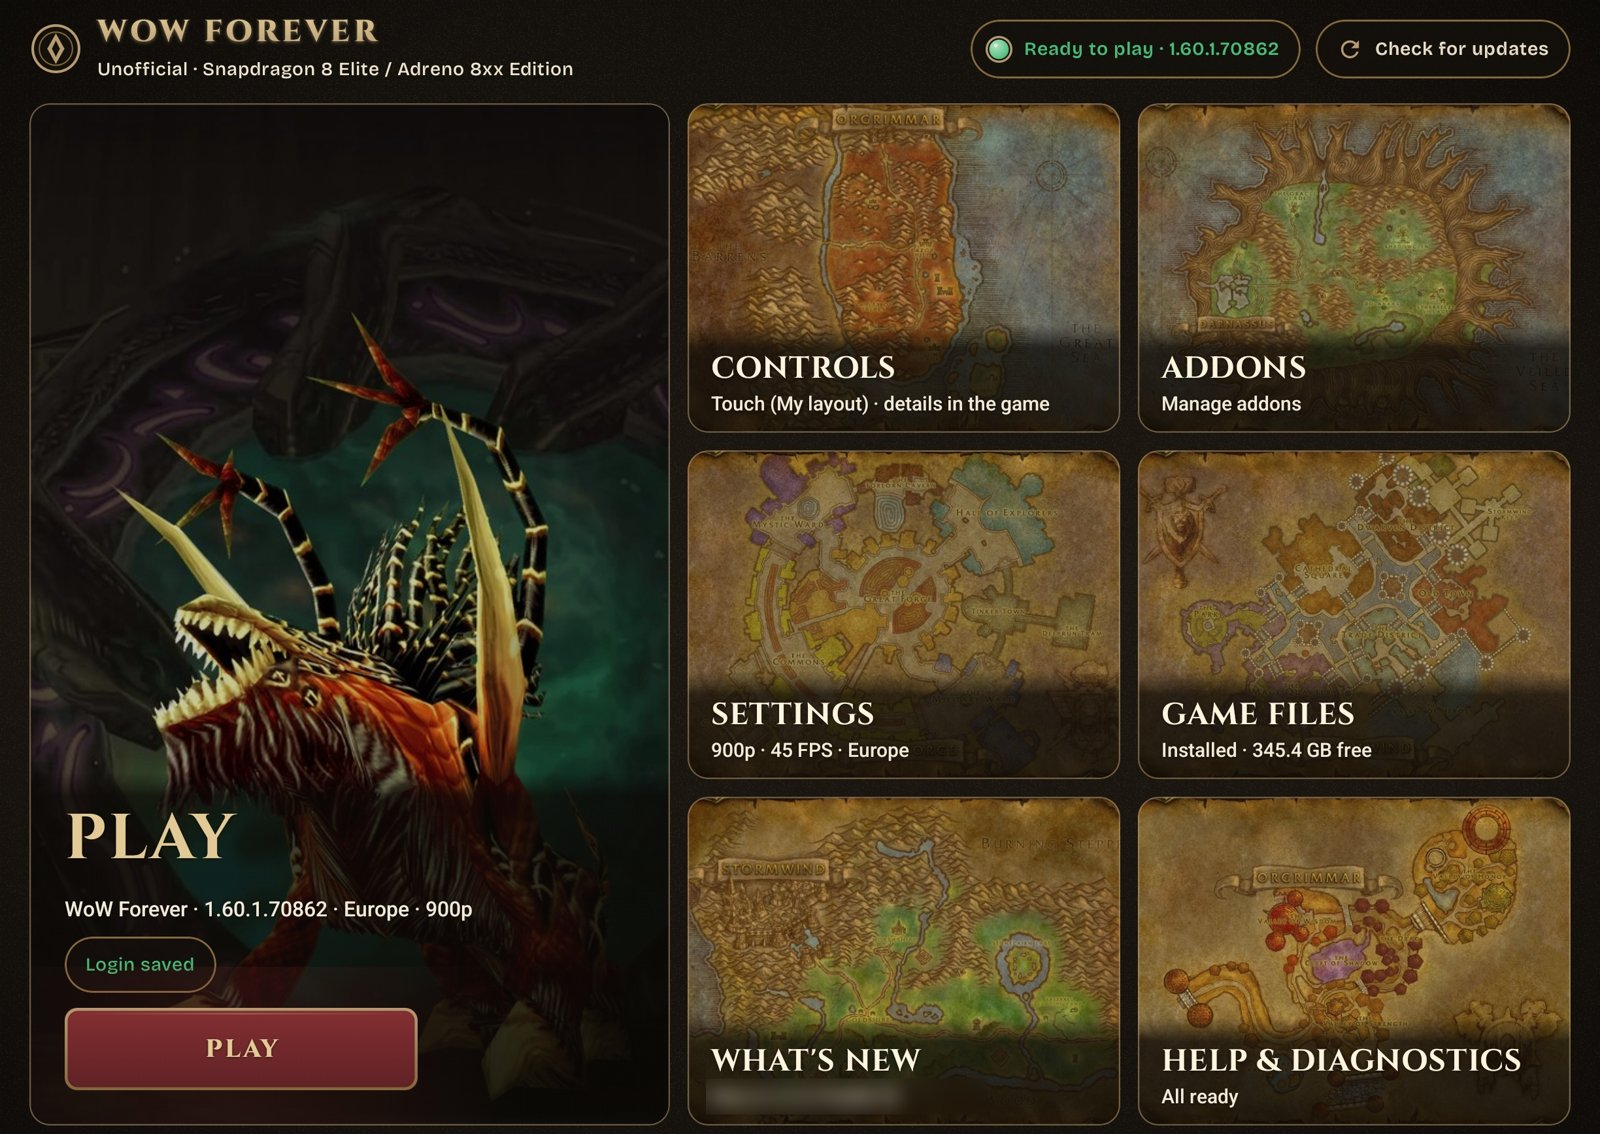
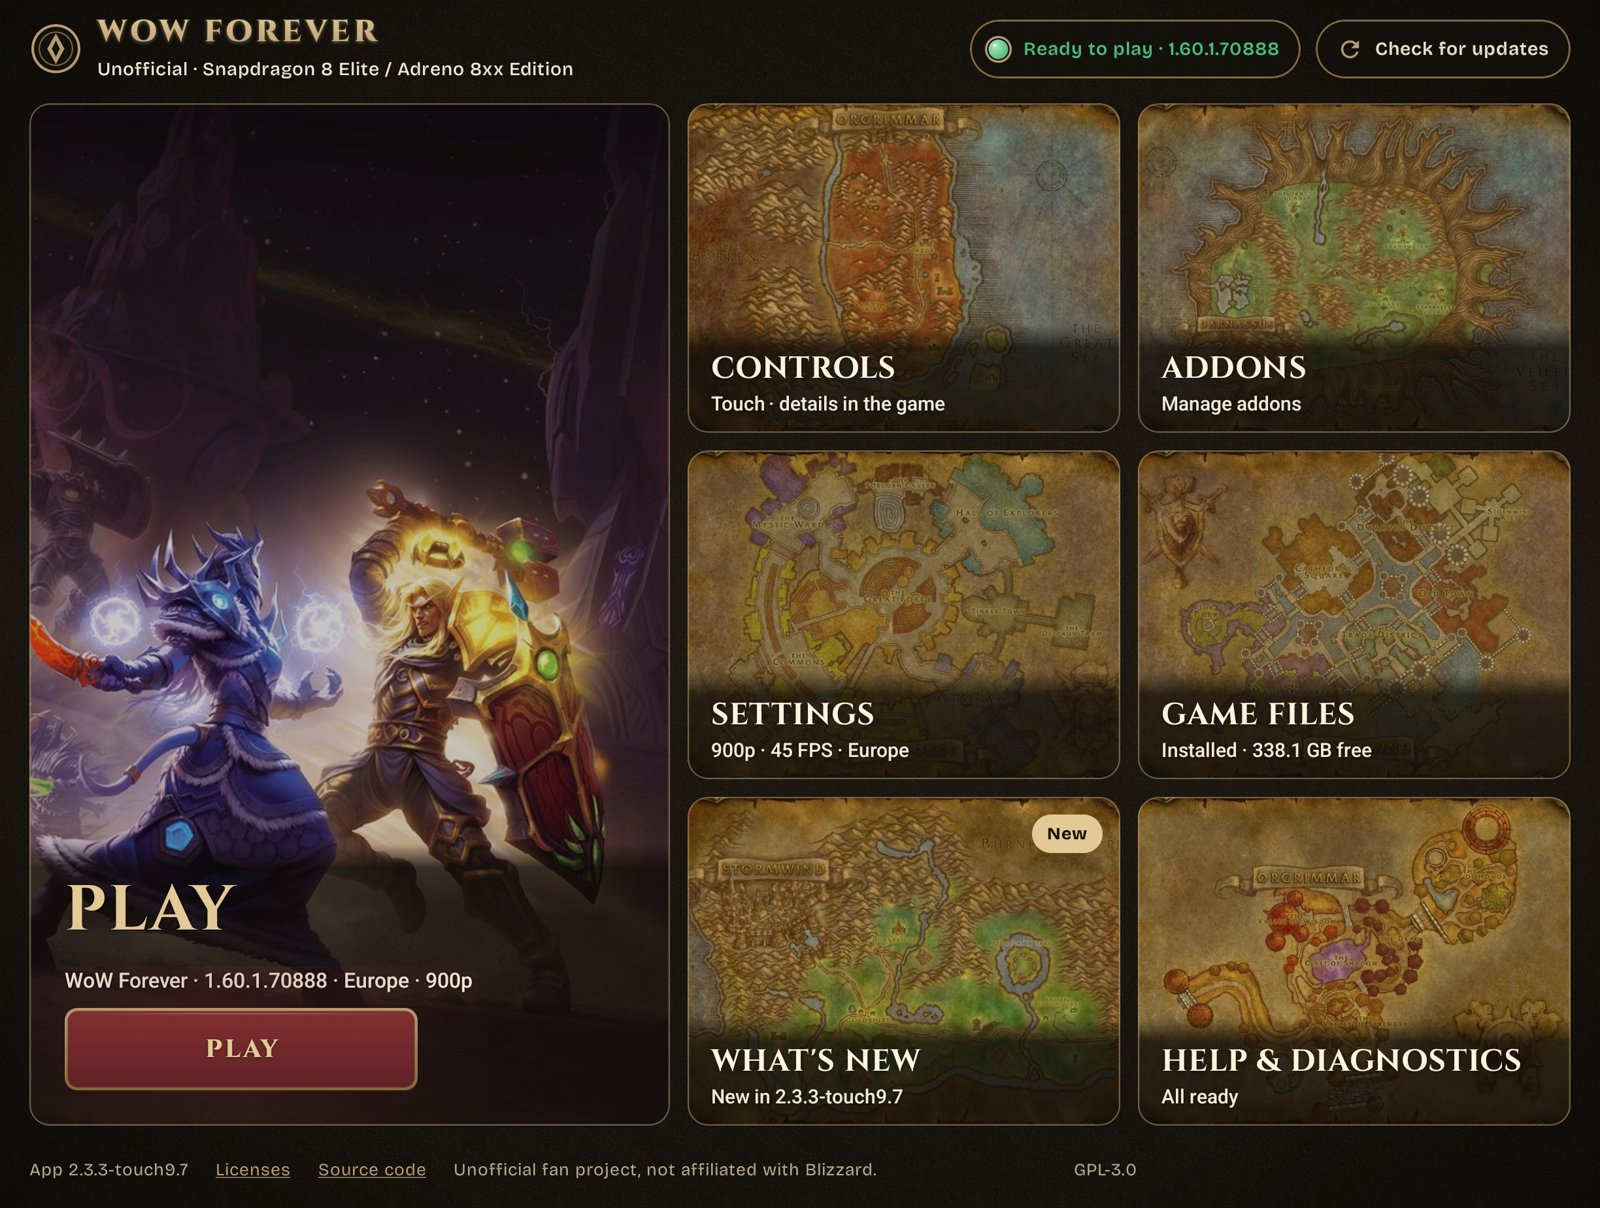
Release 2.3.3-touch9.7 (new screenshots)

diff --git a/README.de.md b/README.de.md
@@ -11,6 +11,8 @@ Die App nutzt den **Windows-ARM64**-Client von Blizzard, das Spiel selbst läuft
 | Touch-Layout im Spiel | Ringmenü | Launcher-Einstellungen |
 | :---: | :---: | :---: |
 | ![Touch-Layout im Spiel](screenshots/ingame-touch-layout.jpg) | ![Ringmenü](screenshots/ingame-ring-menu.jpg) | ![Launcher-Einstellungen](screenshots/launcher-settings.jpg) |
+| **Addons** | **Hilfe & Diagnose** | **Neuigkeiten** |
+| ![Addons](screenshots/launcher-addons.jpg) | ![Hilfe und Diagnose](screenshots/launcher-help.jpg) | ![Neuigkeiten](screenshots/launcher-whats-new.jpg) |
 
 ## Was dieser Launcher macht
 - **Du brauchst einen eigenen offiziellen World-of-Warcraft-Account** (Battle.net) mit aktiver Spiellizenz. Die App enthält keine Spielinhalte, gibt keine weiter, schaltet nichts frei und ändert nichts an den Spielservern.

diff --git a/README.md b/README.md
@@ -13,6 +13,8 @@ This uses Blizzard's own **Windows ARM64** WoW client, so the game itself runs n
 | Touch layout in game | Ring menu | Launcher settings |
 | :---: | :---: | :---: |
 | ![Touch layout in game](screenshots/ingame-touch-layout.jpg) | ![Ring menu](screenshots/ingame-ring-menu.jpg) | ![Launcher settings](screenshots/launcher-settings.jpg) |
+| **Addons** | **Help & diagnostics** | **What's new** |
+| ![Addons](screenshots/launcher-addons.jpg) | ![Help and diagnostics](screenshots/launcher-help.jpg) | ![What's new](screenshots/launcher-whats-new.jpg) |
 
 ## What this launcher does
 - **You need your own official World of Warcraft account** (Battle.net) with an active game license. The app does not include, share or unlock any game content and does not change anything on the game servers.
